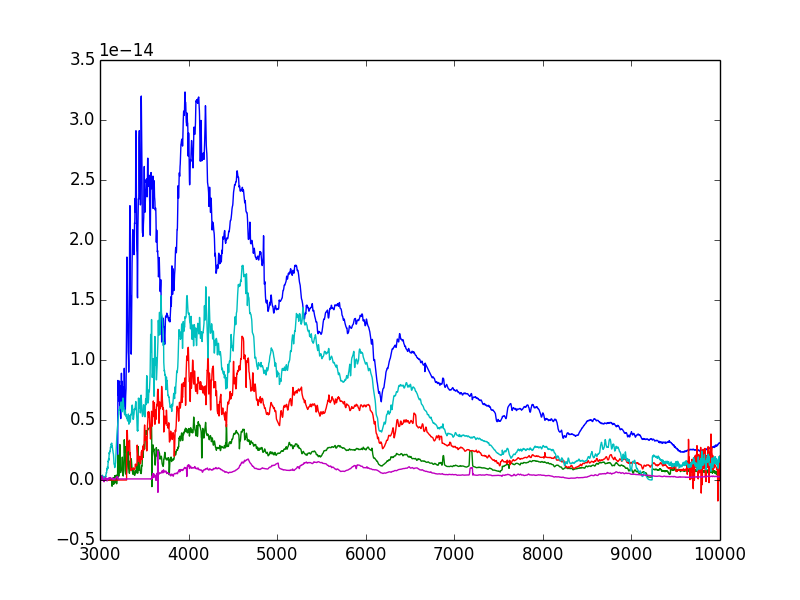
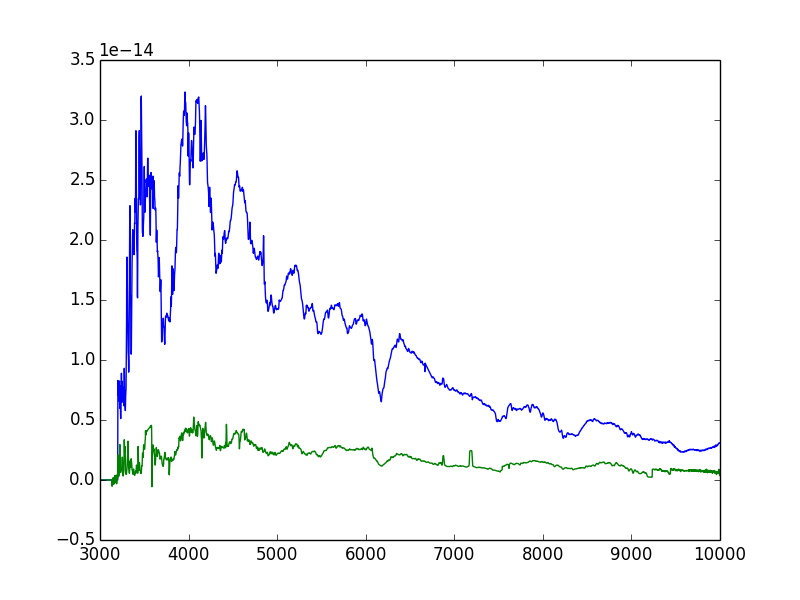
added some flags and calmed down the output

diff --git a/src/composite.py b/src/composite.py
@@ -229,7 +229,7 @@ def average(SN_Array, template):
 	template.name = "Composite Spectrum"
 	return template
 
-def main(Full_query):
+def main(Full_query, showplot = 0, save_file = 'y'):
     SN_Array = []
     #Accept SQL query as input and then grab what we need
     print "SQL Query:", Full_query
@@ -284,17 +284,18 @@ def main(Full_query):
     highindex = np.where(template.wavelength == find_nearest(template.wavelength, wmax))
     
     #This plots the individual composite just so you can see how it looks
-    plt.plot(template.wavelength[lowindex[0]:highindex[0]], template.flux[lowindex[0]:highindex[0]])
-    plt.plot(template.wavelength[lowindex[0]:highindex[0]], template.ivar[lowindex[0]:highindex[0]])
+    if showplot == 1:
+	plt.plot(template.wavelength[lowindex[0]:highindex[0]], template.flux[lowindex[0]:highindex[0]])
+	plt.plot(template.wavelength[lowindex[0]:highindex[0]], template.ivar[lowindex[0]:highindex[0]])
     
-    #This saves it, if you want to.
-    #plt.savefig('../plots/' + f_name + '.png')
-    plt.show()
+	#This saves it, if you want to.
+	plt.savefig('../plots/' + f_name + '.png')
+	plt.show()
     #Either writes data to file, or returns it to user
     #This part is still in progress
     table = Table([template.wavelength, template.flux, template.ivar], names = ('Wavelength', 'Flux', 'Variance'))
-    c_file = str(raw_input("Create a file for data? (y/n)"))
-    if c_file=='y':
+    #c_file = str(raw_input("Create a file for data? (y/n)"))
+    if save_file=='y':
 		#f_name = "../plots/TestComposite"
 		table.write(template.savedname,format='ascii')
 		return template

diff --git a/src/Run.py b/src/Run.py
@@ -18,7 +18,7 @@ Right now it doesn't work...but it will
 
 More can be added as our programs evolve
 
-Here are a few parameters you should set beforehand.
+There are a few parameters you should set beforehand.
 plot_name is where the plot showing both composite spectra together will be saved.
 wmin and wmax define the boundary of the plot.
 """
@@ -69,7 +69,7 @@ variances1   = np.array([Data1["Variance"]])
 fluxes2      = np.array([Data2["Flux"]])
 variances2   = np.array([Data2["Variance"]])
 
-print wavelengths
+#print wavelengths
 
 #To be honest, I'm not sure entirely how this works.
 #Can someone who worked on this piece of code work with it?
